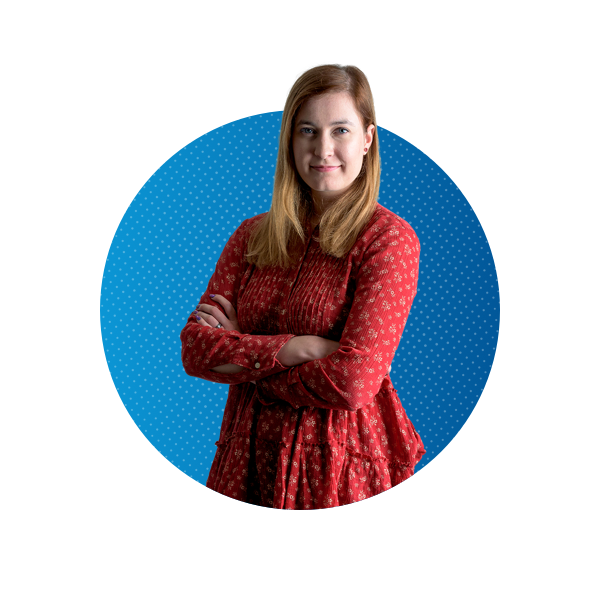
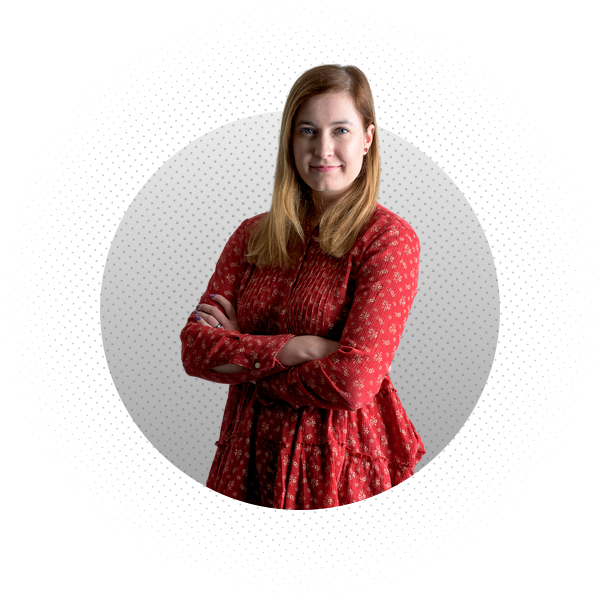
Änderugnen
Verläfue angepasst
Bidler getauscht
Größe der Schrift angepasst

Changed region(s): [[0.15, 0.18, 0.48, 0.81], [0.63, 0.21, 0.84, 0.81]]

diff --git a/assets/css/style.css b/assets/css/style.css
@@ -158,18 +158,18 @@ h1.icon.big{
 }
 body{
   background: #015799;
-  background: -moz-linear-gradient(left, #015799 0%, #0b96d5 100%);
-  background: -webkit-linear-gradient(left, #015799 0%,#0b96d5 100%);
-  background: linear-gradient(to right, #015799 0%,#0b96d5 100%);
-  filter: progid:DXImageTransform.Microsoft.gradient( startColorstr='#015799', endColorstr='#0b96d5',GradientType=1 );
+  background: -moz-linear-gradient(bottom, #015799 0%, #0b96d5 100%);
+  background: -webkit-linear-gradient(bottom, #015799 0%,#0b96d5 100%);
+  background: linear-gradient(to top, #015799 0%,#0b96d5 100%);
+  filter: progid:DXImageTransform.Microsoft.gradient( startColorstr='#015799', endColorstr='#0b96d5',GradientType=0 );
 }
 
 #fullpage{
   background: #015799;
-  background: -moz-linear-gradient(left, #015799 0%, #0b96d5 100%);
-  background: -webkit-linear-gradient(left, #015799 0%,#0b96d5 100%);
-  background: linear-gradient(to right, #015799 0%,#0b96d5 100%);
-  filter: progid:DXImageTransform.Microsoft.gradient( startColorstr='#015799', endColorstr='#0b96d5',GradientType=1 );
+  background: -moz-linear-gradient(bottom, #015799 0%, #0b96d5 100%);
+  background: -webkit-linear-gradient(bottom, #015799 0%,#0b96d5 100%);
+  background: linear-gradient(to top, #015799 0%,#0b96d5 100%);
+  filter: progid:DXImageTransform.Microsoft.gradient( startColorstr='#015799', endColorstr='#0b96d5',GradientType=0 );
 }
 
 .intro{
@@ -185,19 +185,19 @@ body{
 .section_orange{
   /* Permalink - use to edit and share this gradient: http://colorzilla.com/gradient-editor/#f57f51+0,ffbb00+100 */
 background: rgb(245,127,81); /* Old browsers */
-background: -moz-linear-gradient(left, rgba(245,127,81,1) 0%, rgba(255,187,0,1) 100%); /* FF3.6-15 */
-background: -webkit-linear-gradient(left, rgba(245,127,81,1) 0%,rgba(255,187,0,1) 100%); /* Chrome10-25,Safari5.1-6 */
-background: linear-gradient(to right, rgba(245,127,81,1) 0%,rgba(255,187,0,1) 100%); /* W3C, IE10+, FF16+, Chrome26+, Opera12+, Safari7+ */
-filter: progid:DXImageTransform.Microsoft.gradient( startColorstr='#f57f51', endColorstr='#ffbb00',GradientType=1 ); /* IE6-9 */
+background: -moz-linear-gradient(top, rgba(255,187,0,1) 0%, rgba(245,127,81,1) 100%); /* FF3.6-15 */
+background: -webkit-linear-gradient(top, rgba(255,187,0,1) 0%,rgba(245,127,81,1) 100%); /* Chrome10-25,Safari5.1-6 */
+background: linear-gradient(to bottom, rgba(255,187,0,1) 0%,rgba(245,127,81,1) 100%); /* W3C, IE10+, FF16+, Chrome26+, Opera12+, Safari7+ */
+filter: progid:DXImageTransform.Microsoft.gradient( startColorstr='#ffbb00', endColorstr='#f57f51',GradientType=0 ); /* IE6-9 */
 }
 
 .section_grey{
-  /* Permalink - use to edit and share this gradient: http://colorzilla.com/gradient-editor/#f3f3f3+0,dedede+100 */
-background: rgb(243,243,243); /* Old browsers */
-background: -moz-linear-gradient(left, rgba(243,243,243,1) 0%, rgba(222,222,222,1) 100%); /* FF3.6-15 */
-background: -webkit-linear-gradient(left, rgba(243,243,243,1) 0%,rgba(222,222,222,1) 100%); /* Chrome10-25,Safari5.1-6 */
-background: linear-gradient(to right, rgba(243,243,243,1) 0%,rgba(222,222,222,1) 100%); /* W3C, IE10+, FF16+, Chrome26+, Opera12+, Safari7+ */
-filter: progid:DXImageTransform.Microsoft.gradient( startColorstr='#f3f3f3', endColorstr='#dedede',GradientType=1 ); /* IE6-9 */
+  /* Permalink - use to edit and share this gradient: http://colorzilla.com/gradient-editor/#f3f3f3+0,bebebe+100,7db9e8+100 */
+  background: #f3f3f3; /* Old browsers */
+  background: -moz-linear-gradient(top, #f3f3f3 0%, #bebebe 100%, #7db9e8 100%); /* FF3.6-15 */
+  background: -webkit-linear-gradient(top, #f3f3f3 0%,#bebebe 100%,#7db9e8 100%); /* Chrome10-25,Safari5.1-6 */
+  background: linear-gradient(to bottom, #f3f3f3 0%,#bebebe 100%,#7db9e8 100%); /* W3C, IE10+, FF16+, Chrome26+, Opera12+, Safari7+ */
+  filter: progid:DXImageTransform.Microsoft.gradient( startColorstr='#f3f3f3', endColorstr='#7db9e8',GradientType=0 ); /* IE6-9 */
 }
 
 .content{
@@ -312,7 +312,16 @@ display: flex;
   color: #333;
 }
 
+.section-team h3{
+  color: #fff;
+}
+
+.member-text{
+    color: #fff;
+}
+
 .section-team h2 , .section-kontakt h2{
+
   font-size: 50px;
   display: inline-block;
 }
@@ -689,6 +698,11 @@ img.logos{
 @media (max-width: 400px){
    .section-kontakt .bottom_nav{
         bottom: 21vh;
+    }
+
+    .section_orange .start_menu h2{
+      margin-top: 0px;
+      font-size: 3.1vh;
     }
 
     .fp-controlArrow {

diff --git a/index.html b/index.html
@@ -88,7 +88,7 @@
 			navigationTooltips: ['firstSlide', 'secondSlide'],
 			onLeave: function(origin, destination, direction){
 				var leavingSection = this;
-				if(destination == 2 || destination == 3 || destination == 5){
+				if(destination == 2 || destination == 3 ){
 					$("a").css('color', '#fff');
 					$("#moveToHome a img").attr("src","assets/img/logo_white.svg");
 				} else {
@@ -607,7 +607,7 @@ Abstimmungsaufwände reduzieren sich enorm.</p>
 			<div class="team-detail">
 			</div>
 		</div>
-		<div class="section section-kontakt" id="section2">
+		<div class="section section-kontakt section_grey" id="section2">
 			<div class="content row">
 				<div class="row">
 						<div class="col-12">
